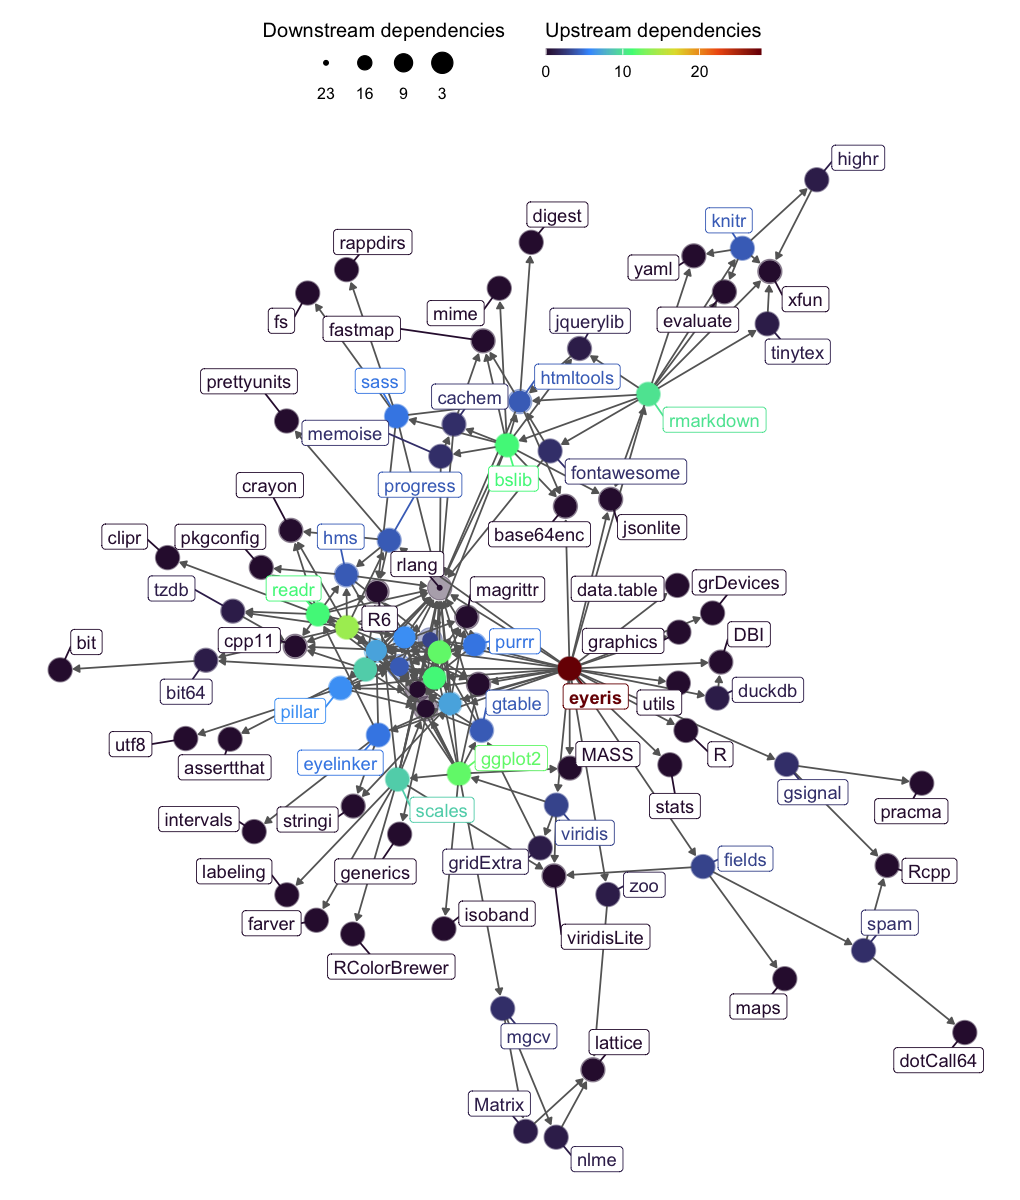
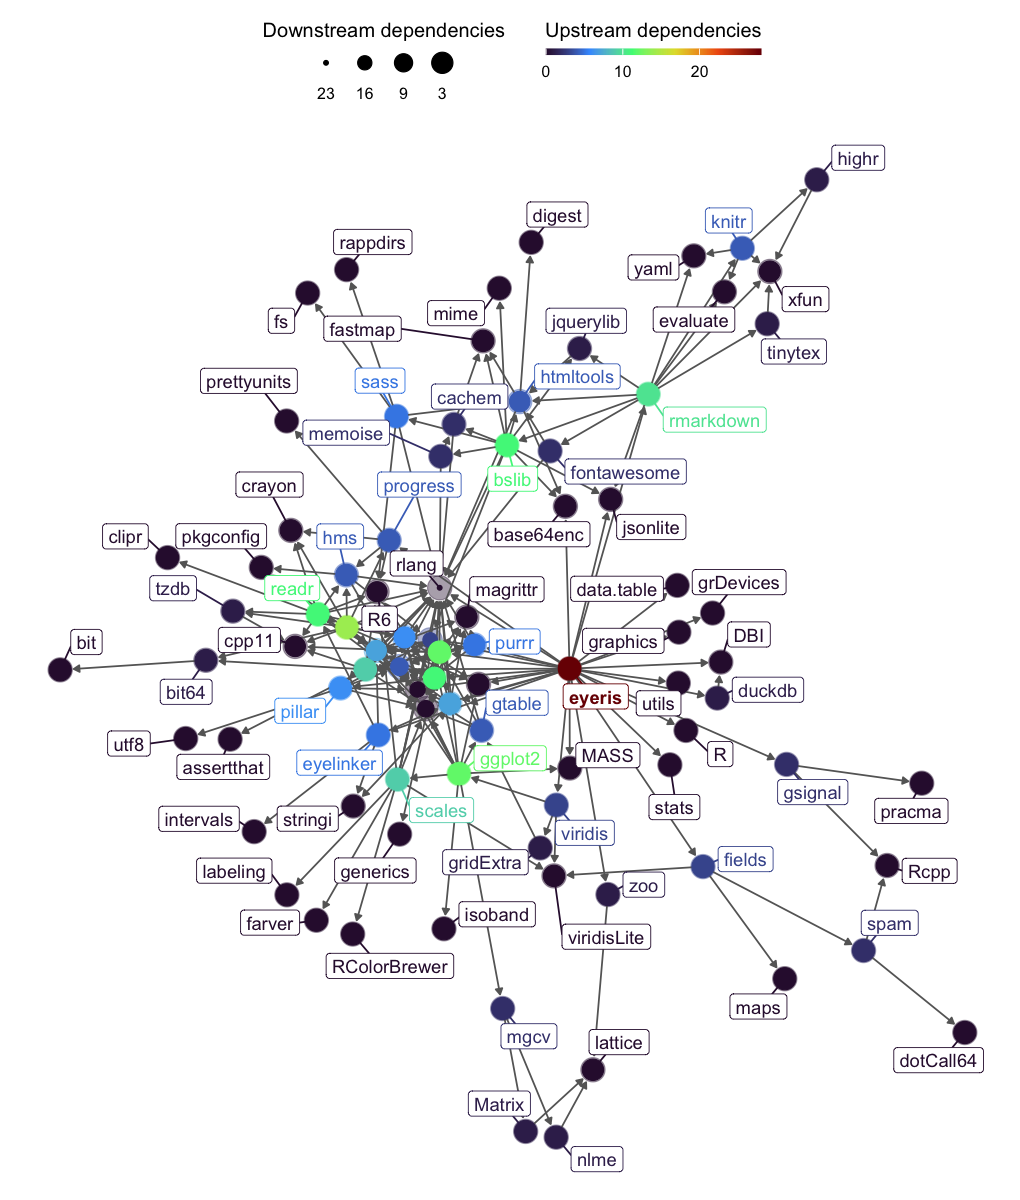
CHORE: update README and docs for new database export features
Added documentation and usage examples for new database export and sharing functions in the README. Updated man page for eyeris_db_split_for_sharing with improved formatting. Refreshed example output and figure in README to reflect latest package version.

diff --git a/README.md b/README.md
@@ -115,6 +115,11 @@ with links to their documentation and a brief description.
 | **Database Storage** | [eyeris_db_collect()](https://shawnschwartz.com/eyeris/reference/eyeris_db_collect.html) | High-performance database storage and querying alternative to CSV files. |
 | **Database Summary** | [eyeris_db_summary()](https://shawnschwartz.com/eyeris/reference/eyeris_db_summary.html) | Get comprehensive overview of database contents and metadata. |
 | **Database Connection** | [eyeris_db_connect()](https://shawnschwartz.com/eyeris/reference/eyeris_db_connect.html) | Connect to eyeris databases for custom queries and operations. |
+| **Database Export (Chunked)** | [eyeris_db_to_chunked_files()](https://shawnschwartz.com/eyeris/reference/eyeris_db_to_chunked_files.html) | Export large databases in configurable chunks with automatic file size limits. |
+| **Database Export (Parquet)** | [eyeris_db_to_parquet()](https://shawnschwartz.com/eyeris/reference/eyeris_db_to_parquet.html) | Export database to high-performance Parquet format files. |
+| **Read Parquet Files** | [read_eyeris_parquet()](https://shawnschwartz.com/eyeris/reference/read_eyeris_parquet.html) | Read and combine eyeris Parquet files with schema-aligned binding. |
+| **Database Sharing (Split)** | [eyeris_db_split_for_sharing()](https://shawnschwartz.com/eyeris/reference/eyeris_db_split_for_sharing.html) | Split databases into chunks for easier sharing and collaboration. |
+| **Database Sharing (Reconstruct)** | [eyeris_db_reconstruct_from_chunks()](https://shawnschwartz.com/eyeris/reference/eyeris_db_reconstruct_from_chunks.html) | Reconstruct complete databases from shared chunks. |
 | **Custom Extensions** | *See vignette: [Custom Extensions](https://shawnschwartz.com/eyeris/articles/custom-extensions.html)* | Learn how to write your own pipeline steps and integrate them with `eyeris`. |
 | **Internal API Reference** | *See vignette: [Internal API Reference](https://shawnschwartz.com/eyeris/articles/internal-api.html)* | Comprehensive documentation of all internal functions for advanced users and developers. |
 
@@ -192,7 +197,7 @@ set.seed(32)
 
 library(eyeris)
 #> 
-#> eyeris v2.1.1.9006 - Lumpy Space Princess ꒰•ᴗ•｡꒱۶
+#> eyeris v2.1.1.9009 - Lumpy Space Princess ꒰•ᴗ•｡꒱۶
 #> Welcome! Type ?`eyeris` to get started.
 
 demo_data <- eyelink_asc_demo_dataset()
@@ -201,20 +206,20 @@ eyeris_preproc <- glassbox(
   demo_data,
   lpfilt = list(plot_freqz = FALSE)
 )
-#> ✔ [2025-08-09 16:20:18] [OKAY] Running eyeris::load_asc()
-#> ℹ [2025-08-09 16:20:18] [INFO] Processing block: block_1
-#> ✔ [2025-08-09 16:20:18] [OKAY] Running eyeris::deblink() for block_1
-#> ✔ [2025-08-09 16:20:18] [OKAY] Running eyeris::detransient() for block_1
-#> ✔ [2025-08-09 16:20:18] [OKAY] Running eyeris::interpolate() for block_1
-#> ✔ [2025-08-09 16:20:18] [OKAY] Running eyeris::lpfilt() for block_1
-#> ! [2025-08-09 16:20:18] [WARN] Skipping eyeris::downsample() for block_1
-#> ! [2025-08-09 16:20:18] [WARN] Skipping eyeris::bin() for block_1
-#> ! [2025-08-09 16:20:18] [WARN] Skipping eyeris::detrend() for block_1
-#> ✔ [2025-08-09 16:20:18] [OKAY] Running eyeris::zscore() for block_1
-#> ℹ [2025-08-09 16:20:18] [INFO] Block processing summary:
-#> ℹ [2025-08-09 16:20:18] [INFO] block_1: OK (steps: 6, latest:
+#> ✔ [2025-08-12 00:52:38] [OKAY] Running eyeris::load_asc()
+#> ℹ [2025-08-12 00:52:38] [INFO] Processing block: block_1
+#> ✔ [2025-08-12 00:52:38] [OKAY] Running eyeris::deblink() for block_1
+#> ✔ [2025-08-12 00:52:38] [OKAY] Running eyeris::detransient() for block_1
+#> ✔ [2025-08-12 00:52:38] [OKAY] Running eyeris::interpolate() for block_1
+#> ✔ [2025-08-12 00:52:38] [OKAY] Running eyeris::lpfilt() for block_1
+#> ! [2025-08-12 00:52:38] [WARN] Skipping eyeris::downsample() for block_1
+#> ! [2025-08-12 00:52:38] [WARN] Skipping eyeris::bin() for block_1
+#> ! [2025-08-12 00:52:38] [WARN] Skipping eyeris::detrend() for block_1
+#> ✔ [2025-08-12 00:52:38] [OKAY] Running eyeris::zscore() for block_1
+#> ℹ [2025-08-12 00:52:38] [INFO] Block processing summary:
+#> ℹ [2025-08-12 00:52:38] [INFO] block_1: OK (steps: 6, latest:
 #> pupil_raw_deblink_detransient_interpolate_lpfilt_z)
-#> ✔ [2025-08-09 16:20:18] [OKAY] Running eyeris::summarize_confounds()
+#> ✔ [2025-08-12 00:52:38] [OKAY] Running eyeris::summarize_confounds()
 ```
 
 ### Step-wise correction of pupillary signal
@@ -240,17 +245,17 @@ plot(eyeris_preproc,
   preview_window = c(start_time, end_time),
   add_progressive_summary = TRUE
 )
-#> ℹ [2025-08-09 16:20:18] [INFO] Plotting block 1 with sampling rate 1000 Hz from
+#> ℹ [2025-08-12 00:52:38] [INFO] Plotting block 1 with sampling rate 1000 Hz from
 #> possible blocks: 1
 ```
 
 <img src="man/figures/README-timeseries-plot-1.png" width="100%" /><img src="man/figures/README-timeseries-plot-2.png" width="100%" /><img src="man/figures/README-timeseries-plot-3.png" width="100%" /><img src="man/figures/README-timeseries-plot-4.png" width="100%" /><img src="man/figures/README-timeseries-plot-5.png" width="100%" /><img src="man/figures/README-timeseries-plot-6.png" width="100%" />
 
-    #> ℹ [2025-08-09 16:20:18] [INFO] Creating progressive summary plot for block_1
+    #> ℹ [2025-08-12 00:52:38] [INFO] Creating progressive summary plot for block_1
 
 <img src="man/figures/README-timeseries-plot-7.png" width="100%" />
 
-    #> ✔ [2025-08-09 16:20:19] [OKAY] Progressive summary plot created successfully!
+    #> ✔ [2025-08-12 00:52:39] [OKAY] Progressive summary plot created successfully!
 
     plot_gaze_heatmap(
       eyeris = eyeris_preproc,
